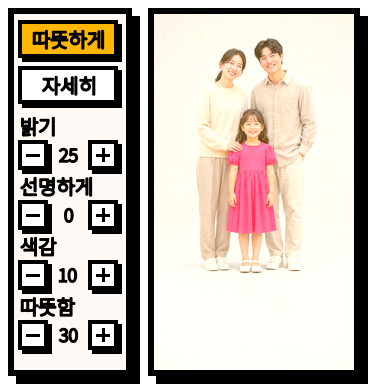
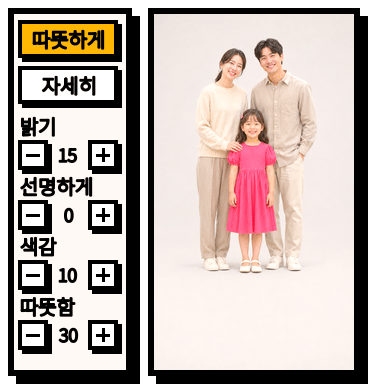
fix(tutorial): Codex 검토 반영 — 가려진 카드 구획·창 줄이기·1l 프레임 색·⑥ 앱 색 보정·⑤ 결과 정지 그림
- 휴대폰 세로 ⑤~⑦: 고정 캔버스·되돌리기 줄(scroll-padding-top) 아래, 툴바(고정 막대 윗변) 위로 구획을 맞추고,
  48px이 남지 않는 낮은 창(약 539px 미만)은 꼬리 없는 가운데 설명으로 바꿈. 데스크톱 카드는 카드 안쪽이 보이는 범위에 맞춤
- 말풍선은 단계를 넘길 때만 0.25초 옮겨 가고 창 크기 변경 등은 바로 놓음
- 1컷 '사진에 글씨새기기'의 ⑦은 색을 바꿀 수 없다고 안내, ⑥·⑦ 글에 나타나는 조건(사진 칸을 고르면, 프레임을 고르면)
- 사용법을 닫으면(완료·건너뛰기·Esc) 튜토리얼이 굴린 스크롤을 되돌리고 포커스를 돌려줄 때 다시 굴리지 않음
- ⑥ 시연은 앱의 색 보정 계산(photoAdjust)과 값(photoEdits)을 그대로 쓰고 밝기는 15까지만, ⑤ 정지 그림은 결과 장면

diff --git a/src/ui/TutorialOverlay.tsx b/src/ui/TutorialOverlay.tsx
@@ -7,6 +7,7 @@ import {
   getTutorialTooltipLayout,
   getTutorialTooltipTransition,
   isTutorialCardTarget,
+  isTutorialCardTargetShown,
   isTutorialDemoTarget,
   TUTORIAL_CARD_MIN_VISIBLE,
   TUTORIAL_DEMO_IMAGE_GAP,
@@ -37,6 +38,24 @@ const getScrollParent = (element: HTMLElement): Element => {
   return document.scrollingElement ?? document.documentElement;
 };
 
+// 스크롤 상자에서 실제로 보이는 위아래 끝(화면 좌표). 문서는 앱 CSS가 위에 고정한 캔버스·되돌리기 줄 높이를
+// scroll-padding-top으로 알려 주고(휴대폰 세로), 카드 같은 상자는 그 안쪽이 화면에 보이는 범위입니다.
+const getVisibleBand = (scrollParent: Element, viewportHeight: number) => {
+  const paddingTop = Number.parseFloat(getComputedStyle(scrollParent).scrollPaddingTop) || 0;
+  if (scrollParent === document.scrollingElement || scrollParent === document.documentElement) return { top: paddingTop, bottom: viewportHeight };
+  const innerTop = scrollParent.getBoundingClientRect().top + scrollParent.clientTop;
+  return { top: Math.max(0, innerTop) + paddingTop, bottom: Math.min(viewportHeight, innerTop + scrollParent.clientHeight) };
+};
+
+// 메뉴 버튼이 붙어 있는 고정 막대(휴대폰 툴바)의 윗변. 버튼 윗변은 막대 윗변보다 아래일 수 있습니다.
+const getPinnedBarTop = (button: HTMLElement): number => {
+  for (let element: HTMLElement | null = button; element; element = element.parentElement) {
+    const { position } = getComputedStyle(element);
+    if (position === 'sticky' || position === 'fixed') return element.getBoundingClientRect().top;
+  }
+  return button.getBoundingClientRect().top;
+};
+
 const readPrefersReducedMotion = () => typeof window !== 'undefined' && typeof window.matchMedia === 'function'
   && window.matchMedia(REDUCED_MOTION_QUERY).matches;
 
@@ -65,6 +84,11 @@ export const TutorialOverlay: React.FC<Props> = ({ step, targetRefs, onNext, onS
   // 바로 앞 자리 잡기 때 그림이 보였는지. 이번에 달라졌으면 말풍선을 옮기는 동안 버튼이 잘리지 않게 바로 놓습니다.
   const wasDemoImageShownRef = useRef(false);
   const [isDemoImageToggled, setIsDemoImageToggled] = useState(false);
+  // 바로 앞 자리 잡기의 단계. 같은 단계에서 다시 잡으면(창 크기 변경 등) 옮기지 않고 바로 놓습니다.
+  const stepRef = useRef<number | null>(null);
+  const [isStepChanged, setIsStepChanged] = useState(false);
+  // 튜토리얼이 굴린 스크롤 상자와 굴리기 전 위치. 닫히면(완료·건너뛰기·Esc) 손님이 보던 자리로 되돌립니다.
+  const scrolledParentsRef = useRef(new Map<Element, number>());
   // 바로 앞 자리 잡기의 자리 종류. 바뀌었으면(레일 옆 ↔ 가운데 ↔ 카드 옆) 말풍선을 옮기지 않고 바로 놓습니다.
   const placementRef = useRef<TutorialPlacement | null>(null);
   const [isPlacementChanged, setIsPlacementChanged] = useState(false);
@@ -79,6 +103,14 @@ export const TutorialOverlay: React.FC<Props> = ({ step, targetRefs, onNext, onS
     updateReducedMotion();
     motionMedia.addEventListener?.('change', updateReducedMotion);
     return () => motionMedia.removeEventListener?.('change', updateReducedMotion);
+  }, []);
+
+  useEffect(() => {
+    const scrolledParents = scrolledParentsRef.current;
+    return () => {
+      scrolledParents.forEach((scrollTop, scrollParent) => { scrollParent.scrollTop = scrollTop; });
+      scrolledParents.clear();
+    };
   }, []);
 
   // 창 높이가 바뀌면 그림을 넣을지와 말풍선 자리를 다시 정합니다.
@@ -126,30 +158,43 @@ export const TutorialOverlay: React.FC<Props> = ({ step, targetRefs, onNext, onS
   useLayoutEffect(() => {
     const target = currentStep.target;
     const element = targetRefs[step]?.map((ref) => ref.current).find((candidate) => candidate !== null) ?? null;
-    const placement = getTutorialPlacement({ target, screen, hasTargetElement: element !== null });
+    let placement = getTutorialPlacement({ target, screen, hasTargetElement: element !== null });
     const tooltipHeight = tooltipRef.current?.offsetHeight ?? 200;
-    // 편집 카드 단계는 가리킬 구획이 보이게 카드를 굴립니다(휴대폰 세로는 구획이 말풍선 바로 아래에 오게).
+    // 툴바 윗변은 메뉴 단계가 가리키는 툴바 버튼이 붙은 고정 막대로 잽니다(휴대폰 세로에서 카드 구획이 보일 아래 끝).
+    const hasCard = steps.some((tutorialStep, index) => isTutorialCardTarget(tutorialStep.target) && targetRefs[index]?.some((ref) => ref.current !== null));
+    const toolbarTops = steps.flatMap((tutorialStep, index) => (isTutorialCardTarget(tutorialStep.target)
+      ? []
+      : (targetRefs[index] ?? []).flatMap((ref) => (ref.current ? [getPinnedBarTop(ref.current)] : []))));
+    // 아래 툴바는 휴대폰 세로에만 있습니다(데스크톱 레일·낮은 가로 툴바는 옆).
+    const toolbarTop = screen === 'phonePortrait' && toolbarTops.length > 0 ? Math.min(...toolbarTops) : viewportHeight;
+    // 편집 카드 단계는 가리킬 구획이 보이게 카드를 굴립니다(휴대폰 세로는 구획이 말풍선과 위에 고정된 캔버스·되돌리기 줄 바로
+    // 아래에 오게). 휴대폰 세로에서 그래도 툴바 위로 보이지 않으면(낮은 창) 가려진 곳 대신 가운데에서 설명합니다.
     if (element && isTutorialCardTarget(target)) {
-      const elementRect = element.getBoundingClientRect();
-      const scrollDelta = getTutorialCardScrollDelta({ placement, rect: elementRect, tooltipHeight, viewportHeight });
-      if (scrollDelta !== 0) getScrollParent(element).scrollTop += scrollDelta;
+      const scrollParent = getScrollParent(element);
+      const band = getVisibleBand(scrollParent, viewportHeight);
+      const visibleBottom = Math.min(band.bottom, toolbarTop);
+      const scrollDelta = getTutorialCardScrollDelta({ placement, rect: element.getBoundingClientRect(), tooltipHeight, visibleTop: band.top, visibleBottom });
+      if (scrollDelta !== 0) {
+        if (!scrolledParentsRef.current.has(scrollParent)) scrolledParentsRef.current.set(scrollParent, scrollParent.scrollTop);
+        scrollParent.scrollTop += scrollDelta;
+      }
+      if (placement === 'above' && !isTutorialCardTargetShown({ rect: element.getBoundingClientRect(), visibleTop: band.top, tooltipHeight, visibleBottom })) {
+        placement = 'center';
+      }
     }
     const measuredHeights = demoMeasureRefs.current.slice(0, demoStepIndexCount).map((copy) => copy?.offsetHeight ?? 0);
     setDemoTooltipHeights((previous) => (previous && previous.join() === measuredHeights.join() ? previous : measuredHeights));
     setIsDemoImageToggled(wasDemoImageShownRef.current !== isDemoImageShown);
     wasDemoImageShownRef.current = isDemoImageShown;
-    // 툴바 높이는 메뉴 단계가 가리키는 툴바 버튼 윗변으로 잽니다.
-    const hasCard = steps.some((tutorialStep, index) => isTutorialCardTarget(tutorialStep.target) && targetRefs[index]?.some((ref) => ref.current !== null));
-    const toolbarTops = steps.flatMap((tutorialStep, index) => (isTutorialCardTarget(tutorialStep.target)
-      ? []
-      : (targetRefs[index] ?? []).flatMap((ref) => (ref.current ? [ref.current.getBoundingClientRect().top] : []))));
     const nextBottomReserve = screen === 'phonePortrait' && hasCard && toolbarTops.length > 0
-      ? Math.max(0, viewportHeight - Math.min(...toolbarTops)) + TUTORIAL_CARD_MIN_VISIBLE
+      ? Math.max(0, viewportHeight - toolbarTop) + TUTORIAL_CARD_MIN_VISIBLE
       : 0;
     setBottomReserve((previous) => (Math.abs(previous - nextBottomReserve) < 1 ? previous : nextBottomReserve));
+    setIsStepChanged(stepRef.current !== step);
+    stepRef.current = step;
     setIsPlacementChanged(placementRef.current !== placement);
     placementRef.current = placement;
-    const rect = element?.getBoundingClientRect() ?? null;
+    const rect = placement === 'center' ? null : element?.getBoundingClientRect() ?? null;
     setLayout({
       ...getTutorialTooltipLayout({
         placement,
@@ -227,7 +272,7 @@ export const TutorialOverlay: React.FC<Props> = ({ step, targetRefs, onNext, onS
           left: `${layout.left}px`,
           top: `${layout.top}px`,
           zIndex: 1000,
-          transition: getTutorialTooltipTransition({ prefersReducedMotion, isDemoImageToggled, isPlacementChanged }),
+          transition: getTutorialTooltipTransition({ prefersReducedMotion, isStepChanged, isDemoImageToggled, isPlacementChanged }),
         }}
       >
         {/* 화살표 — 레일 오른쪽: 왼쪽, 대상 위: 아래쪽, 대상 왼쪽: 오른쪽, 가운데: 없음 */}

diff --git a/src/ui/tutorialSteps.ts b/src/ui/tutorialSteps.ts
@@ -10,10 +10,12 @@ const STEP_NUMBERS = ["①", "②", "③", "④", "⑤", "⑥", "⑦", "⑧"];
 
 // 튜토리얼 단계(설계 8장). 왼쪽 메뉴 ①~④ 뒤에 오른쪽 편집 카드 단계가 오고, 다 꾸민 뒤 누르는 저장이 맨 끝입니다.
 // 누끼 메뉴나 바닥 얼룩 지우기·사진 색 구획이 꺼진 구성은 그 단계를 빼고 번호를 당깁니다.
-// 카드 단계 글은 기기와 무관하게 어디서 찾는지('사진 칸을 고르면 나오는 편집 카드')를 알려 줍니다. 첫 화면(칸 고르기)에는 카드가 없습니다.
-export const getTutorialSteps = ({ hasCutoutMenu, photoEditSections }: {
+// 카드 단계 글은 기기와 무관하게 그 기능이 나타나는 조건('사진 칸을 고르면', '프레임을 고르면')을 알려 줍니다.
+// 첫 화면(칸 고르기)에는 카드가 없습니다. isFrameColorLocked는 지금 프레임이 색을 바꿀 수 없는 경우(1컷 '사진에 글씨새기기')입니다.
+export const getTutorialSteps = ({ hasCutoutMenu, photoEditSections, isFrameColorLocked = false }: {
   hasCutoutMenu: boolean;
   photoEditSections: Pick<PhotoEditSections, "showErase" | "showAdjust">;
+  isFrameColorLocked?: boolean;
 }): TutorialStep[] => {
   const steps: { target: TutorialTarget; name: string; description: string }[] = [
     { target: "frames", name: "프레임 고르기", description: "사진 몇 장으로 만들지 골라요.\n빈 칸을 누르면 사진을 넣을 수 있어요." },
@@ -28,9 +30,15 @@ export const getTutorialSteps = ({ hasCutoutMenu, photoEditSections }: {
     ...(photoEditSections.showAdjust ? [{
       target: "color" as const,
       name: "사진 색",
-      description: "편집 카드의 [사진 색]에서 색을 고르거나 [자세히]에서 밝기·선명하게·색감·따뜻함을 맞춰요.",
+      description: "사진 칸을 고르면 나오는 편집 카드의 [사진 색]에서 고르거나 [자세히]에서 밝기·선명하게·색감·따뜻함을 맞춰요.",
     }] : []),
-    { target: "frameColor", name: "프레임 색", description: "편집 카드의 [프레임 색 바꾸기]를 누르고 색을 골라요." },
+    {
+      target: "frameColor",
+      name: "프레임 색",
+      description: isFrameColorLocked
+        ? "이 프레임은 색을 바꿀 수 없어요.\n다른 프레임에서는 [프레임 색 바꾸기]로 바꿔요."
+        : "프레임을 고르면 나오는 편집 카드에서 [프레임 색 바꾸기]를 누르고 색을 골라요.",
+    },
     { target: "save", name: "저장", description: "다 꾸몄으면 [저장]을 눌러요." },
   ];
   return steps.map(({ target, name, description }, index) => ({ target, title: `${STEP_NUMBERS[index]} ${name}`, description }));
@@ -88,20 +96,38 @@ export const getTutorialPlacement = ({ target, screen, hasTargetElement }: {
   return "right";
 };
 
+// 휴대폰 세로(위 배치)에서 카드 구획이 보이기 시작하는 높이: 말풍선 아래, 그리고 위에 고정된 캔버스·되돌리기 줄(visibleTop) 아래
+const getCardVisibleTop = (tooltipHeight: number, visibleTop: number) =>
+  Math.max(tooltipHeight + TUTORIAL_TOOLTIP_MARGIN * 2, visibleTop);
+
 // 편집 카드 단계에서 가리킬 구획이 보이게 카드를 굴릴 양(px, 양수면 내용이 위로 올라감). 휴대폰 세로(위 배치)는
-// 구획 윗변이 말풍선 바로 아래에 오게 하고(말풍선이 구획을 가리지 않게), 옆 배치는 화면 밖일 때만 가장 가까운 만큼 굴립니다.
-// 굴릴 수 있는 범위 끝에서는 브라우저가 알아서 멈춥니다.
-export const getTutorialCardScrollDelta = ({ placement, rect, tooltipHeight, viewportHeight }: {
+// 구획 윗변이 말풍선과 고정 캔버스 바로 아래에 오게 하고(가려지지 않게), 옆 배치는 화면 밖일 때만 가장 가까운 만큼 굴립니다.
+// 굴릴 수 있는 범위 끝에서는 브라우저가 알아서 멈춥니다. visibleTop·visibleBottom은 스크롤 상자에서 실제로 보이는 위아래 끝입니다
+// (휴대폰 세로 문서는 위에 고정된 캔버스·되돌리기 줄 아래(scroll-padding-top), 데스크톱 카드는 카드 안쪽이 화면에 보이는 범위).
+export const getTutorialCardScrollDelta = ({ placement, rect, tooltipHeight, visibleTop = 0, visibleBottom }: {
   placement: TutorialPlacement;
   rect: { top: number; height: number };
   tooltipHeight: number;
-  viewportHeight: number;
+  visibleTop?: number;
+  visibleBottom: number;
 }): number => {
-  if (placement === "above") return rect.top - (tooltipHeight + TUTORIAL_TOOLTIP_MARGIN * 2);
-  if (rect.top < 0) return rect.top - TUTORIAL_TOOLTIP_MARGIN;
+  if (placement === "above") return rect.top - getCardVisibleTop(tooltipHeight, visibleTop);
+  if (rect.top < visibleTop) return rect.top - visibleTop - TUTORIAL_TOOLTIP_MARGIN;
   const bottom = rect.top + rect.height;
-  if (bottom > viewportHeight) return Math.min(bottom - viewportHeight + TUTORIAL_TOOLTIP_MARGIN, rect.top - TUTORIAL_TOOLTIP_MARGIN);
+  if (bottom > visibleBottom) return Math.min(bottom - visibleBottom + TUTORIAL_TOOLTIP_MARGIN, rect.top - visibleTop - TUTORIAL_TOOLTIP_MARGIN);
   return 0;
+};
+
+// 휴대폰 세로에서 굴린 뒤 구획이 말풍선·고정 캔버스 아래, 툴바(visibleBottom) 위로 48px(구획이 더 낮으면 다) 보이는지.
+// 아니면(낮은 창) 가려진 곳을 가리키지 않게 꼬리 없는 가운데 말풍선으로 설명합니다.
+export const isTutorialCardTargetShown = ({ rect, visibleTop, tooltipHeight, visibleBottom }: {
+  rect: { top: number; height: number };
+  visibleTop: number;
+  tooltipHeight: number;
+  visibleBottom: number;
+}): boolean => {
+  const visibleHeight = Math.min(rect.top + rect.height, visibleBottom) - Math.max(rect.top, getCardVisibleTop(tooltipHeight, visibleTop));
+  return visibleHeight >= Math.min(rect.height, TUTORIAL_CARD_MIN_VISIBLE);
 };
 
 // 시연 단계의 그림. 보이는 단계에서만 그려서 다른 단계와 건너뛴 손님은 받지 않습니다. 모든 단계의 크기가 같고
@@ -131,13 +157,15 @@ export const getTutorialDemoImage = ({ target, screen, prefersReducedMotion, dem
   return { src, width: DEMO_IMAGE_WIDTH, height: DEMO_IMAGE_HEIGHT };
 };
 
-// 말풍선이 다음 단계 자리로 0.25초 동안 옮겨 갑니다. 그림이 보이거나 숨는 때와 자리 종류가 바뀌는 때(레일 옆 ↔ 가운데 ↔
-// 카드 옆)는 높이가 크게 바뀌어 옛 자리에서 움직이는 동안 버튼이 화면 밖으로 나갈 수 있어 새 자리에 바로 놓습니다.
-export const getTutorialTooltipTransition = ({ prefersReducedMotion, isDemoImageToggled, isPlacementChanged }: {
+// 말풍선은 단계를 넘길 때만 다음 자리로 0.25초 동안 옮겨 갑니다. 그림이 보이거나 숨는 때와 자리 종류가 바뀌는 때(레일 옆 ↔
+// 가운데 ↔ 카드 옆)는 높이가 크게 바뀌고, 창 크기가 바뀌는 때는 옛 자리가 화면 밖일 수 있어, 움직이는 동안 버튼이 잘리지 않게
+// 새 자리에 바로 놓습니다.
+export const getTutorialTooltipTransition = ({ prefersReducedMotion, isStepChanged, isDemoImageToggled, isPlacementChanged }: {
   prefersReducedMotion: boolean;
+  isStepChanged: boolean;
   isDemoImageToggled: boolean;
   isPlacementChanged: boolean;
-}): string => (prefersReducedMotion || isDemoImageToggled || isPlacementChanged
+}): string => (prefersReducedMotion || !isStepChanged || isDemoImageToggled || isPlacementChanged
   ? "none"
   : "top 0.25s cubic-bezier(0.4,0,0.2,1), left 0.25s cubic-bezier(0.4,0,0.2,1)");
 

diff --git a/src/App.tsx b/src/App.tsx
@@ -231,7 +231,10 @@ type PendingBoothyImportState = {
 const DEFAULT_CANVAS_WIDTH = EXACT_VERTICAL_CANVAS.width;
 const DEFAULT_CANVAS_HEIGHT = EXACT_VERTICAL_CANVAS.height;
 const BOOTHY_HOST_SAVE_TIMEOUT_MS = 30_000;
-const TUTORIAL_STEPS = getTutorialSteps({ hasCutoutMenu: PHOTO_EDIT_FEATURES.cutout, photoEditSections: getPhotoEditSections(PHOTO_EDIT_FEATURES) })
+const TUTORIAL_STEP_OPTIONS = { hasCutoutMenu: PHOTO_EDIT_FEATURES.cutout, photoEditSections: getPhotoEditSections(PHOTO_EDIT_FEATURES) }
+const TUTORIAL_STEPS = getTutorialSteps(TUTORIAL_STEP_OPTIONS)
+// 1컷 '사진에 글씨새기기'(1l)는 프레임 색을 바꿀 수 없어 ⑦ 글만 다릅니다(단계 수·순서는 같음)
+const TUTORIAL_STEPS_FRAME_COLOR_LOCKED = getTutorialSteps({ ...TUTORIAL_STEP_OPTIONS, isFrameColorLocked: true })
 
 declare global {
   interface Window {
@@ -891,7 +894,8 @@ function App() {
     tutorialOpenerRef.current = null;
     mobileSheetOpenerRef.current = null;
     const returnIndex = pickFocusReturnIndex(candidates.map(describeFocusCandidate));
-    if (returnIndex >= 0) candidates[returnIndex]?.focus();
+    // 튜토리얼이 굴린 화면은 닫힐 때 되돌렸으므로 포커스를 돌려줄 때 다시 굴리지 않습니다(휴대폰 툴바 버튼).
+    if (returnIndex >= 0) candidates[returnIndex]?.focus({ preventScroll: true });
   }, [isTutorialOpen]);
 
   // 휴대폰 시트가 닫히면 연 툴바 버튼으로 돌아갑니다(배경, '닫기', 컷 수 고르기, 사진·스티커 넣기로 닫힐 때 모두).
@@ -2699,7 +2703,7 @@ function App() {
         {tutorialStep !== null && (
           <TutorialOverlay
             step={tutorialStep}
-            steps={TUTORIAL_STEPS}
+            steps={canvasMode === 'editor' && editorState.selectedFrame === '1l' ? TUTORIAL_STEPS_FRAME_COLOR_LOCKED : TUTORIAL_STEPS}
             targetRefs={tutorialTargetRefs}
             onNext={handleTutorialNext}
             onSkip={handleTutorialSkip}
